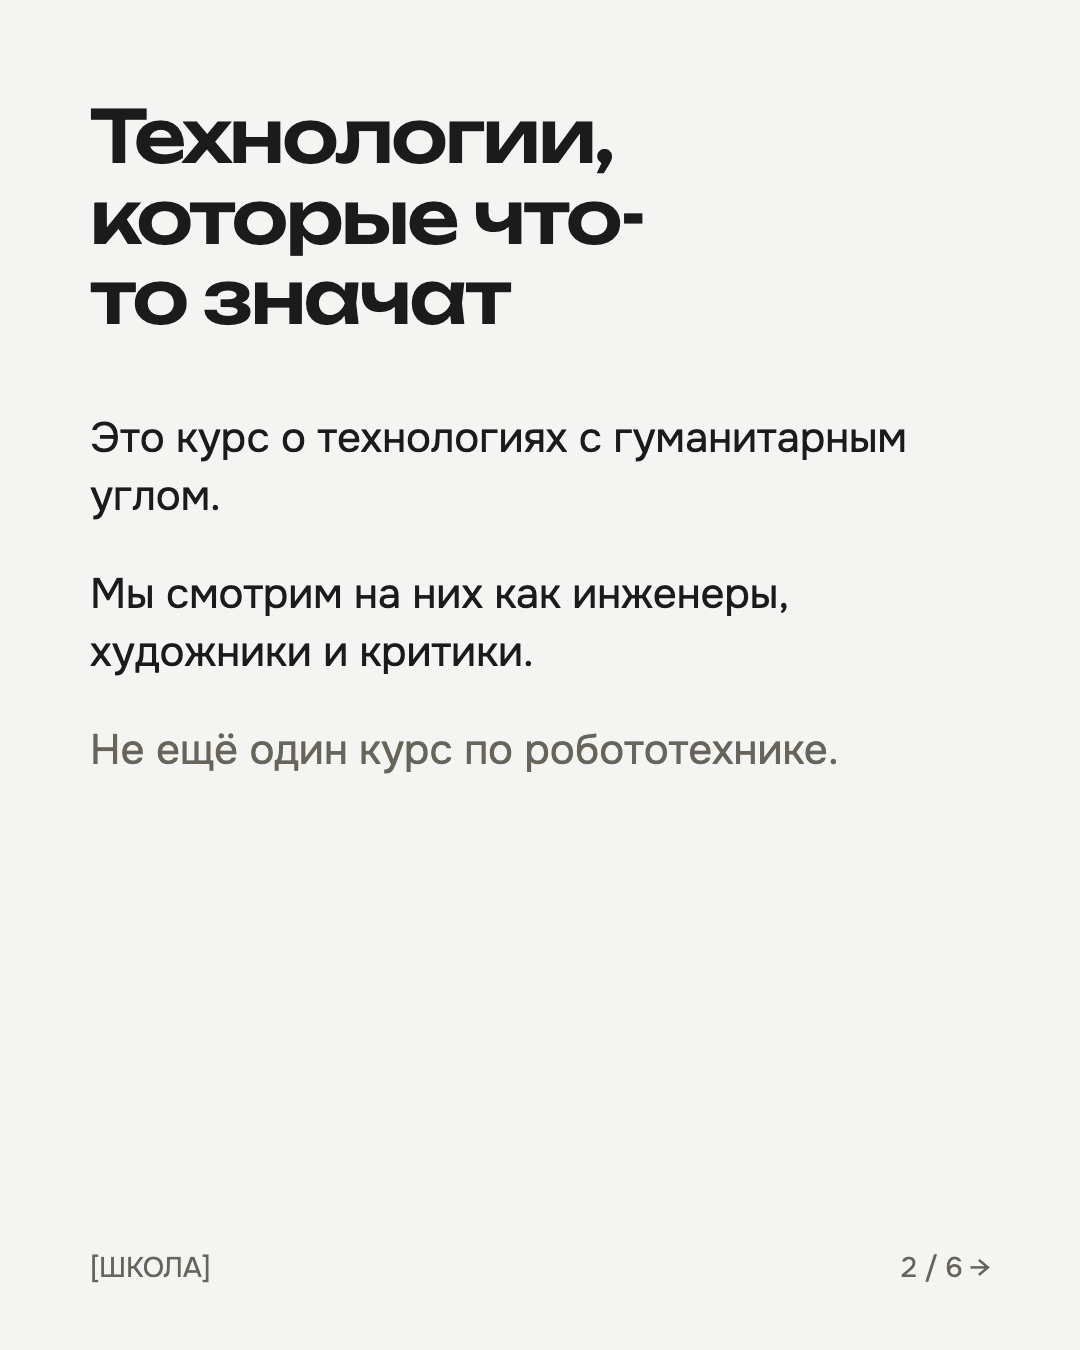
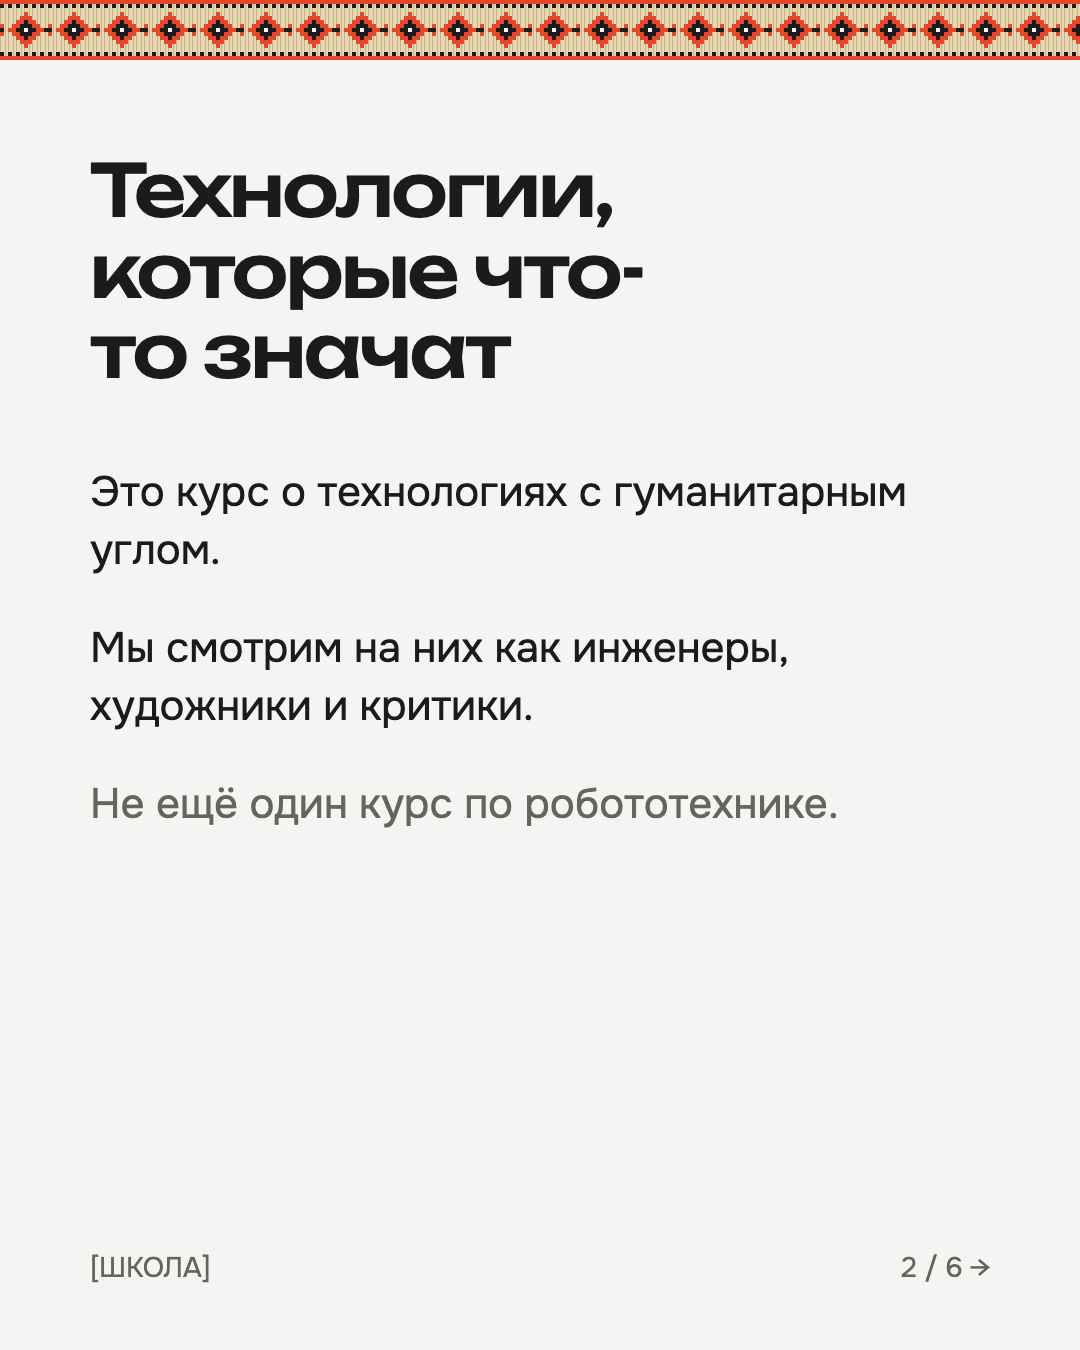
Add shym shi (chiy) mat ornament band to quiet page and carousel

Changed region(s): [[0.0611, 0.3111, 0.8556, 0.6222], [0.0, 0.0, 1.0, 0.28]]

diff --git a/creative-engineering-quiet-ru.html b/creative-engineering-quiet-ru.html
@@ -36,6 +36,7 @@
   @keyframes sway { 0%,100% { transform: rotate(-2.5deg); } 50% { transform: rotate(2.5deg); } }
   @media (prefers-reduced-motion: reduce) { .sway { animation: none; } html { scroll-behavior: auto; } }
 
+  .chiy { height: 60px; margin-top: 8px; background: url('img/chiy-tile.svg') repeat-x left center; background-size: auto 100%; }
   section { border-top: 1px solid var(--ink); padding: 20px 0 0; margin-top: 88px; display: grid; grid-template-columns: 1fr 2fr; gap: var(--g); }
   h2 { font-family: 'Onest', sans-serif; font-weight: 500; font-size: 15px; margin: 4px 0 0; color: var(--gray); }
   .weeks { margin: 0; padding: 0; list-style: none; }
@@ -97,6 +98,8 @@
   </div>
 </header>
 
+<div class="chiy" role="presentation"></div>
+
 <section id="program">
   <h2>Программа</h2>
   <!-- Блоки 1–3 названы автором курса; 4 и 5 — предложение, не подтверждено -->
@@ -152,6 +155,7 @@
 <footer>
   <div>[ШКОЛА] · Creative Engineering School</div>
   <div>Бюро Art + STEM</div>
+  <div style="flex-basis:100%">Орнамент по мотивам шым ши, традиционных тростниковых циновок.</div>
 </footer>
 
 </div>

diff --git a/carousel/index.html b/carousel/index.html
@@ -10,8 +10,9 @@
   :root { --paper: #f4f5f3; --ink: #1b1b1b; --gray: #67645c; --red: #e8452a; --yellow: #f2b632; --pink: #ee95b4; --blue: #2c4fb8; }
   * { box-sizing: border-box; }
   body { margin: 0; background: #ccc; font-family: 'Onest', Arial, sans-serif; color: var(--ink); }
-  .slide { position: relative; width: 1080px; height: 1350px; background: var(--paper); padding: 96px 90px; overflow: hidden; display: flex; flex-direction: column; margin: 0 auto 24px; }
+  .slide { position: relative; width: 1080px; height: 1350px; background: var(--paper); padding: 150px 90px 96px; overflow: hidden; display: flex; flex-direction: column; margin: 0 auto 24px; }
   .solo .slide { margin: 0; }
+  .slide::before { content: ''; position: absolute; left: 0; right: 0; top: 0; height: 60px; background: url('../img/chiy-tile.svg') repeat-x left center; background-size: auto 100%; }
   h1, h2 { font-family: 'Unbounded', 'Onest', sans-serif; font-weight: 500; margin: 0; letter-spacing: -.03em; line-height: 1.12; text-wrap: balance; }
   h1 { font-size: 104px; }
   h2 { font-size: 72px; }
